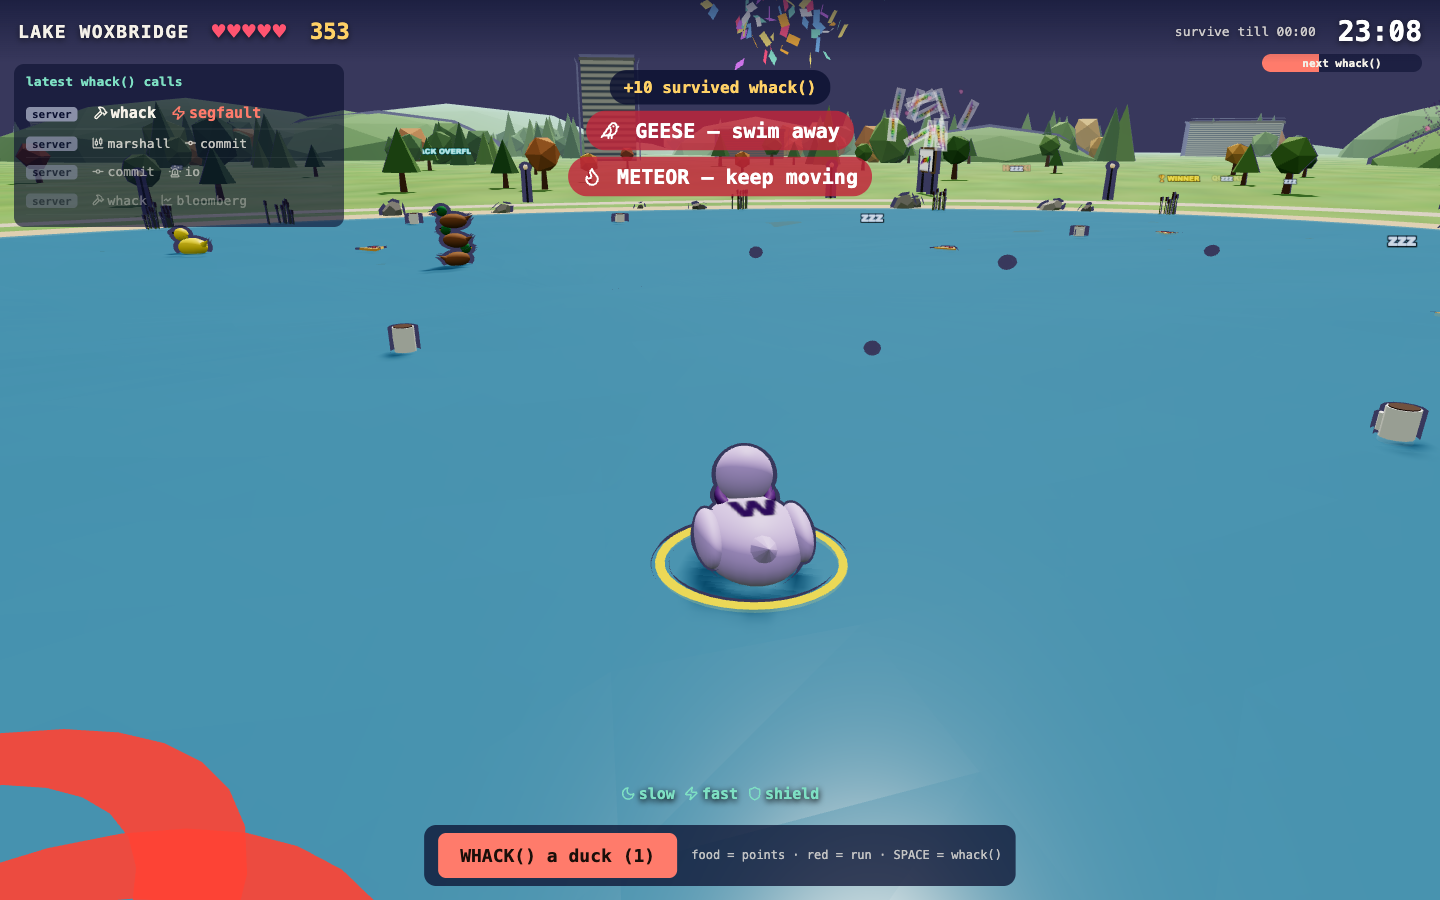
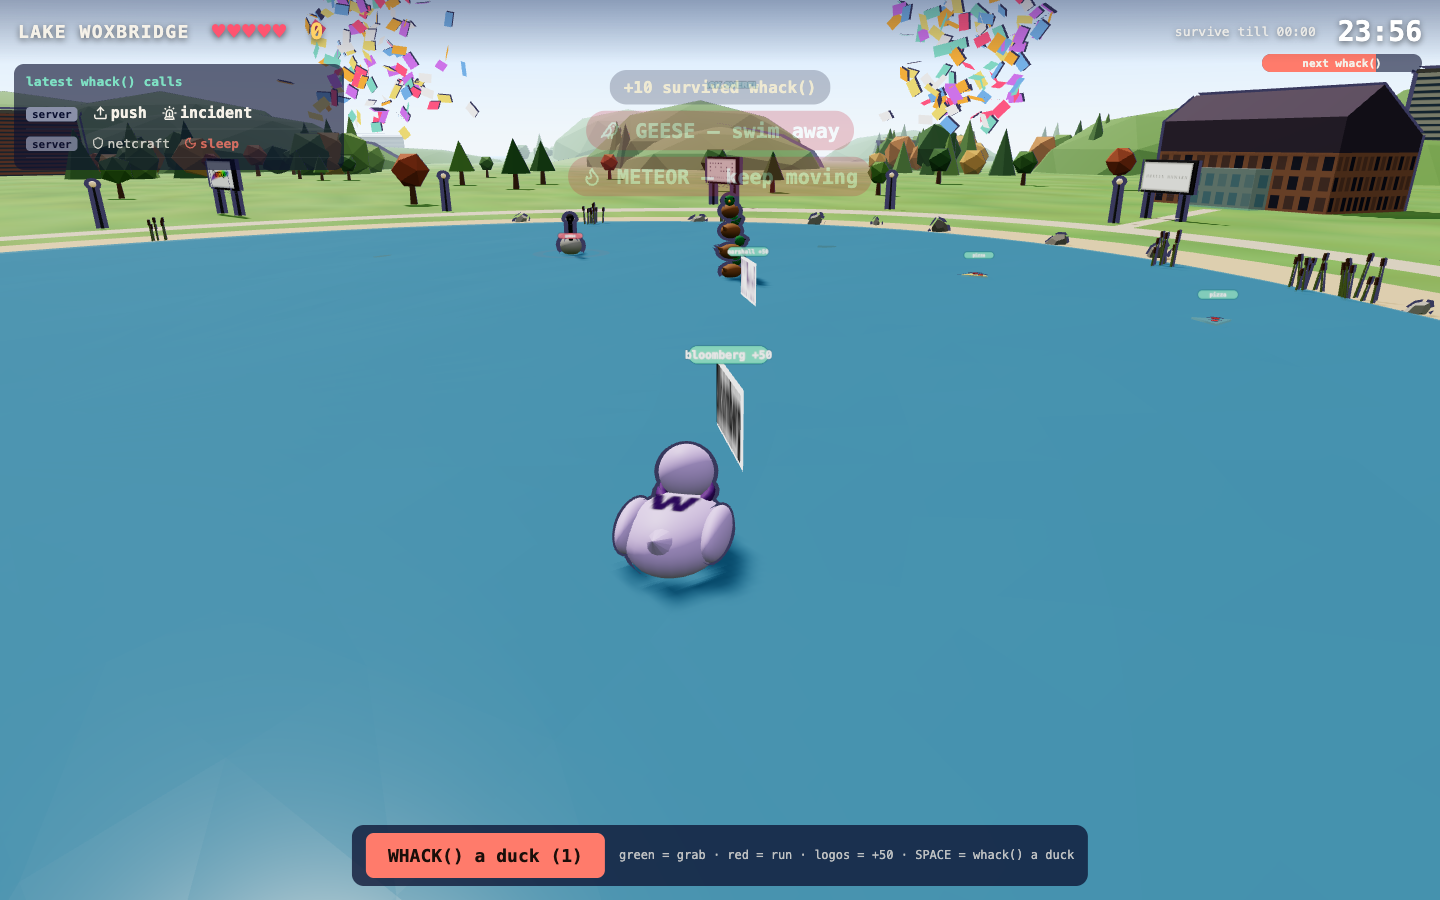
Bright daytime sky (outline pass was painting the sky dome dark)

diff --git a/submissions/chocoliticekreem/public/world.js b/submissions/chocoliticekreem/public/world.js
@@ -117,9 +117,9 @@ export function buildWorld(scene) {
 
   // ---------- sky, fog, lights ----------
   const sky = {
-    top: C("#3a8ee6"), horizon: C("#cfe8ff"),
+    top: C("#6cb8ff"), horizon: C("#e4f3ff"),
     topNight: C("#03061a"), horizonNight: C("#0b1030"),
-    fog: C("#d4ecff"), fogNight: C("#0b1030"),
+    fog: C("#e4f3ff"), fogNight: C("#0b1030"),
   };
   scene.background = sky.horizon.clone();
   scene.fog = new THREE.Fog(sky.fog.clone(), 150, 600);
@@ -136,7 +136,7 @@ export function buildWorld(scene) {
       void main(){
         vec3 d = normalize(vPos);
         float h = clamp(d.y, 0.0, 1.0);
-        vec3 zenith = top * 0.78;
+        vec3 zenith = top * 0.95;
         vec3 col = mix(horizon, top, smoothstep(0.0, 0.35, h));
         col = mix(col, zenith, smoothstep(0.35, 1.0, h));
         col = mix(col, vec3(1.0, 0.96, 0.9), pow(1.0 - h, 10.0) * 0.45);
@@ -153,6 +153,7 @@ export function buildWorld(scene) {
   });
   const skyDome = new THREE.Mesh(new THREE.SphereGeometry(500, 32, 16), skyMat);
   skyDome.renderOrder = -1;
+  skyMat.userData.outlineParameters = { visible: false };
   skyDome.frustumCulled = false;
   // follow the camera so the dome never crosses camera.far (600) wherever the duck swims
   skyDome.onBeforeRender = (_r, _s, cam) => {

diff --git a/submissions/chocoliticekreem/public/style.css b/submissions/chocoliticekreem/public/style.css
@@ -4,7 +4,7 @@ html, body { height: 100%; overflow: hidden; background: #0b1030; color: #f5f1e8
 #scene { position: fixed; inset: 0; width: 100%; height: 100%; display: block; }
 
 #top { position: fixed; top: 0; left: 0; right: 0; z-index: 2; display: flex; align-items: center; gap: 22px;
-  padding: 12px 18px; background: linear-gradient(#0b103099, #0b103000); pointer-events: none; text-shadow: 0 2px 6px #0008; }
+  padding: 12px 18px; background: linear-gradient(#0b103055, #0b103000); pointer-events: none; text-shadow: 0 2px 6px #0008; }
 #title { font-weight: 800; font-size: 18px; letter-spacing: .08em; }
 #hp { font-size: 22px; color: #ff5470; letter-spacing: 2px; }
 #score { font-size: 22px; font-weight: 800; color: #ffd166; }
